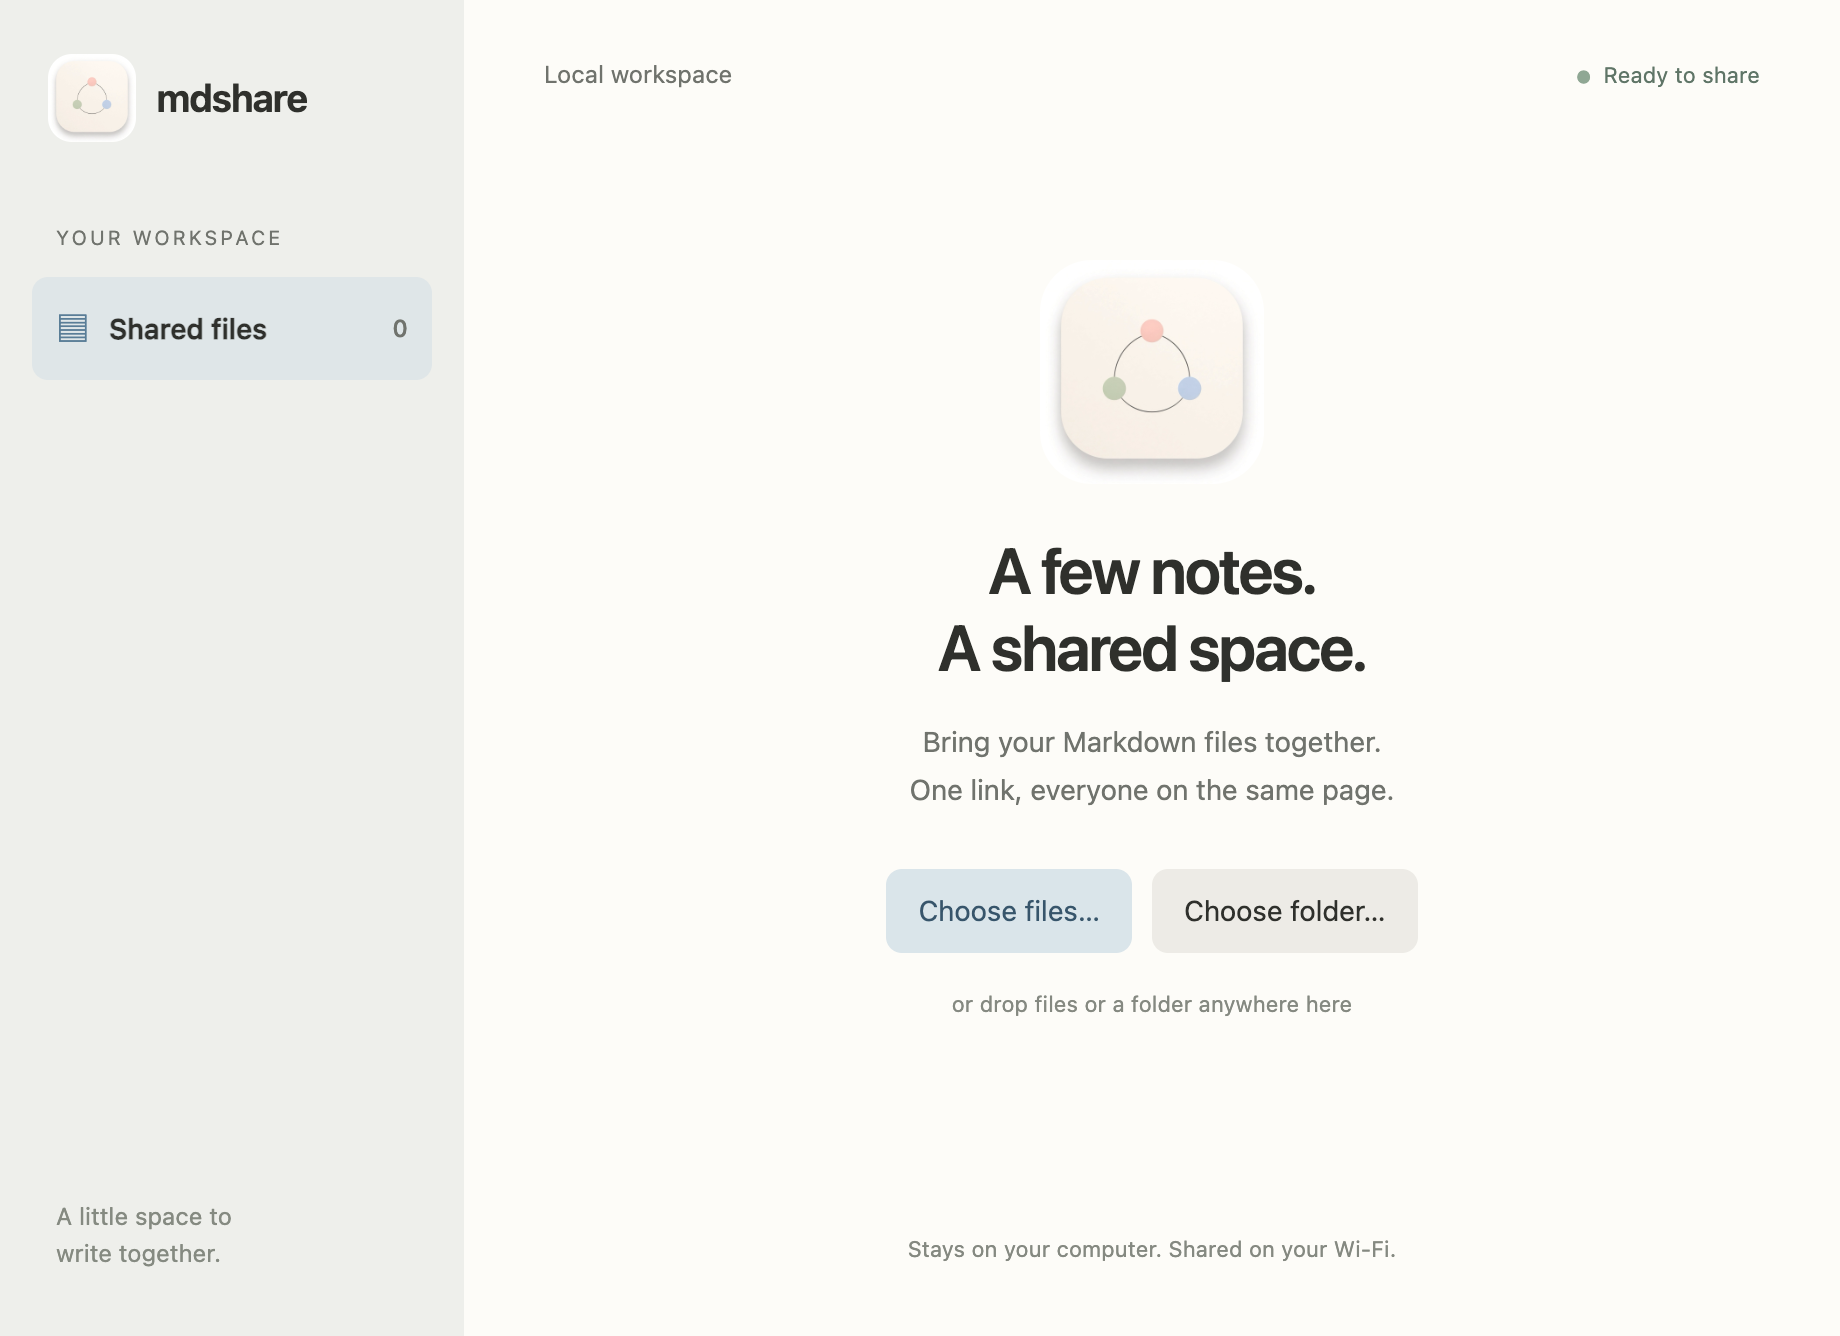
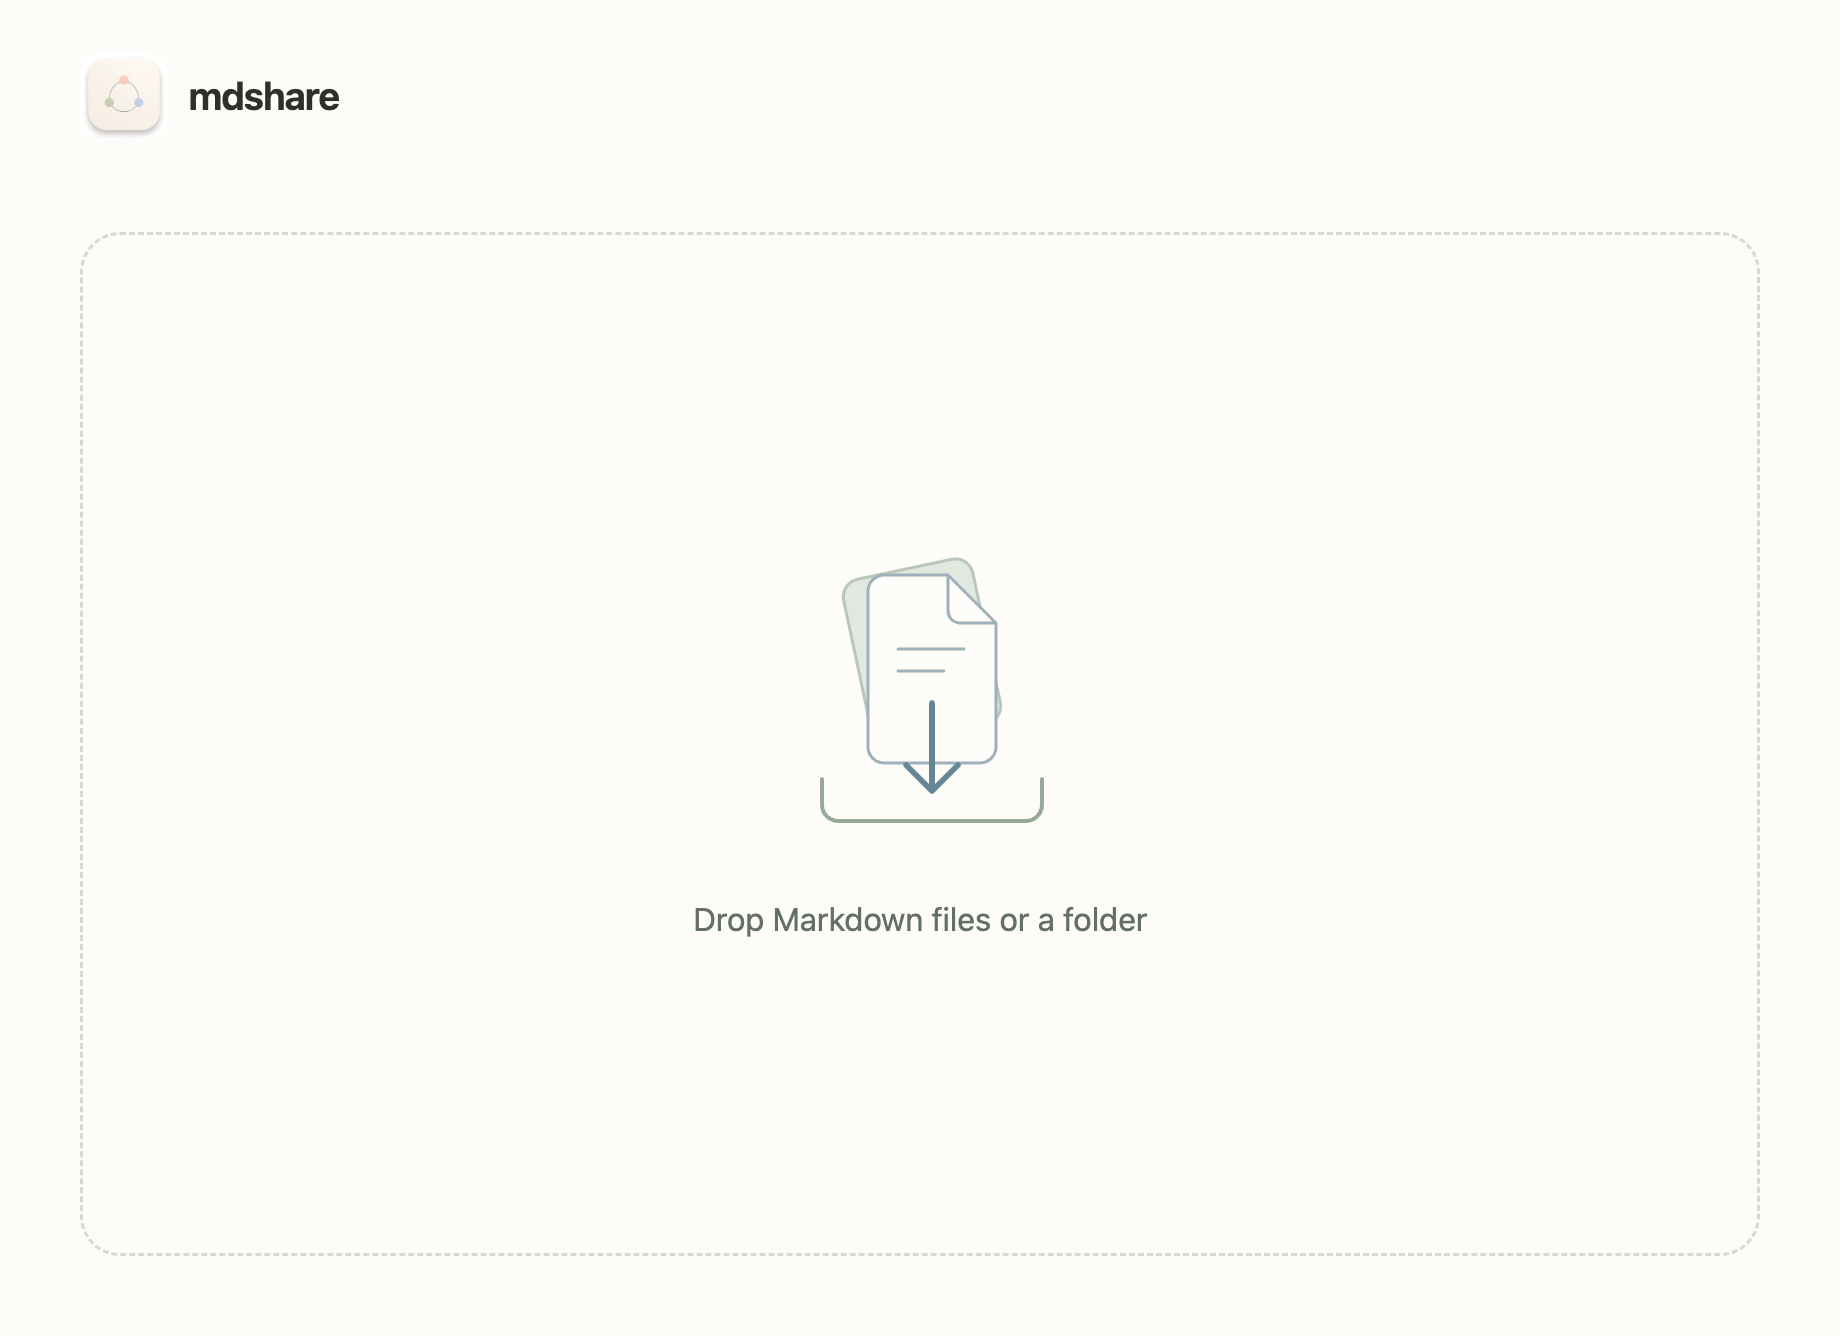
ui: make sharing a minimal drag-and-drop interaction

diff --git a/src/host-ui/host.css b/src/host-ui/host.css
@@ -10,48 +10,50 @@ button:disabled { opacity: .5; cursor: wait; }
 .sidebar { width: 232px; flex: none; padding: 27px 16px 20px; background: #f0f1ee; display: flex; flex-direction: column; }
 .brand { display: flex; align-items: center; gap: 10px; padding: 0 8px; font-size: 19px; font-weight: 650; letter-spacing: -.5px; }
 .brand img { border-radius: 12px; }
-.sidebar-label { margin: 40px 12px 12px; font-size: 10px; letter-spacing: 1.4px; color: var(--muted); }
-.sidebar-current { background: #e3e9eb; padding: 11px 12px; border-radius: 8px; display: flex; align-items: center; gap: 10px; font-weight: 550; }
+.sidebar-current { margin-top: 40px; background: #e3e9eb; padding: 11px 12px; border-radius: 8px; display: flex; align-items: center; gap: 10px; font-weight: 550; }
 .sidebar-current > :first-child { color: #6488a1; font-size: 19px; }
 #file-count { margin-left: auto; font-size: 12px; color: var(--muted); }
 #file-list { list-style: none; margin: 12px 0; padding: 0; overflow: auto; flex: 1; }
 #file-list li { padding: 9px 12px; overflow-wrap: anywhere; font-size: 12px; color: #686e68; }
-#file-list .empty-list { color: #94978f; }
-.sidebar-foot { padding: 0 12px; color: #90958c; font-size: 12px; }
 main { flex: 1; min-width: 0; padding: 28px 40px 24px; display: flex; flex-direction: column; overflow: auto; }
-.topbar { display: flex; align-items: center; justify-content: space-between; gap: 12px; color: var(--muted); font-size: 12px; }
+.topbar { display: flex; align-items: center; justify-content: flex-end; gap: 12px; color: var(--muted); font-size: 12px; }
 .status { color: #6a8072; font-size: 11px; }
 .status::before { content: '●'; margin-right: 6px; color: #9ab09e; font-size: 8px; }
 .view { flex: 1; display: flex; flex-direction: column; }
-.drop { flex: 1; padding: 30px 0; display: flex; flex-direction: column; align-items: center; justify-content: center; border-radius: 18px; text-align: center; transition: background .15s; }
-.drop.over { background: #eaf0ed; outline: 2px dashed #b2c5bc; outline-offset: -8px; }
-.hero-logo { border-radius: 26px; margin-bottom: 24px; }
+.drop { flex: 1; min-height: 300px; margin: 16px 0 0; padding: 36px 20px; display: flex; flex-direction: column; align-items: center; justify-content: center; border: 1.5px dashed #d9dfd7; border-radius: 20px; text-align: center; cursor: pointer; transition: background .15s, border-color .15s; }
+.drop:hover { background: #f8f9f5; }
+.drop:focus-visible { outline: 2px solid #7c9fbc; outline-offset: 5px; }
+.drop-icon { margin-bottom: 24px; overflow: visible; transition: transform .18s; }
+.back-sheet { fill: #e5ebe3; stroke: #c2cdbf; stroke-width: 1.5; }
+.front-sheet { fill: #fdfcf9; stroke: #a8b9c2; stroke-width: 1.5; }
+.sheet-fold, .sheet-line { stroke: #a8b9c2; stroke-width: 1.5; stroke-linecap: round; stroke-linejoin: round; }
+.drop-arrow { stroke: #70929f; stroke-width: 3; stroke-linecap: round; stroke-linejoin: round; }
+.drop-tray { stroke: #a1b3a1; stroke-width: 2; stroke-linecap: round; }
+.drop-hint { margin: 0; font-size: 16px; color: #6e7b70; }
+.drop[aria-busy="true"] { cursor: progress; opacity: .65; }
+body:not(.is-sharing) .sidebar { position: absolute; inset: 0 auto auto 0; width: auto; padding: 26px 32px; background: transparent; }
+body:not(.is-sharing) .sidebar-current, body:not(.is-sharing) #file-list, body:not(.is-sharing) .topbar { display: none; }
+body:not(.is-sharing) main { padding: 100px 40px 40px; }
+body:not(.is-sharing) .error { margin-top: 0; }
+.drop.over { background: #edf3ec; border-color: #95af98; }
+.drop.over .drop-icon { transform: translateY(6px); }
 h1 { font-size: 32px; line-height: 1.2; letter-spacing: -1.15px; font-weight: 600; margin: 0 0 16px; }
-.subtitle { color: var(--muted); margin: 0; line-height: 1.7; overflow-wrap: anywhere; }
-.actions { display: flex; gap: 10px; margin-top: 28px; }
-.primary { background: #dfe8ed; color: #3f6076; }
-.drop-hint, .footnote { color: #90948c; font-size: 11px; }
-.drop-hint { margin-top: 17px; }
-.footnote { text-align: center; }
 .error, .frozen { border-radius: 9px; padding: 12px 15px; background: #f7eddf; color: #826144; font-size: 12px; }
 .frozen { margin: 18px 0 0; }
 .frozen strong { display: block; }
 .sharing-heading { margin-top: 45px; }
-.eyebrow, .label { color: var(--muted); font-size: 10px; letter-spacing: 1.3px; }
-.eyebrow { color: #809287; margin-bottom: 12px; }
-.sharing-heading h1 { font-size: 29px; margin-bottom: 10px; }
-.connection { display: flex; align-items: center; gap: 26px; margin: 27px 0; }
-.qr { width: 148px; height: 148px; border-radius: 12px; padding: 8px; background: white; }
-.connection-copy h2 { font-size: 15px; font-weight: 600; margin: 0 0 8px; }
-.connection-copy p { color: var(--muted); font-size: 12px; margin: 0 0 12px; }
-.pill { color: #6a8771; background: #edf2eb; border-radius: 5px; padding: 4px 7px; font-size: 10px; }
+.sharing-heading h1 { font-size: 25px; margin-bottom: 10px; overflow-wrap: anywhere; }
+.connection { display: flex; flex-direction: column; align-items: center; gap: 14px; margin: 28px 0; }
+.connection-copy { margin: 0; color: var(--muted); font-size: 12px; }
+.qr { width: 180px; height: 180px; border-radius: 12px; padding: 8px; background: white; }
 .url-row { display: flex; gap: 10px; align-items: center; margin-top: 7px; border-radius: 9px; padding: 6px 6px 6px 12px; background: #f1f2ef; }
 .url { flex: 1; min-width: 0; }
 .url, .ip code { font: 11px/1.6 ui-monospace, Menlo, monospace; overflow-wrap: anywhere; user-select: all; }
 .url-row button { flex: none; padding: 8px 10px; background: var(--bg); font-size: 12px; }
 .ip { font-size: 10px; color: var(--muted); margin-top: 12px; }
-.sharing-footer { margin-top: 24px; display: flex; justify-content: space-between; align-items: center; gap: 12px; }
-.sharing-footer span { color: var(--muted); font-size: 11px; }
+.sharing-footer { margin-top: 24px; display: flex; justify-content: flex-end; align-items: center; gap: 12px; }
 .stop { background: #f4e9e4; color: #9b6d60; font-size: 12px; }
 .disclosure { margin: auto 0 0; padding-top: 26px; color: #93958e; font-size: 10px; line-height: 1.6; }
 @media (max-width: 760px) { .sidebar { width: 190px; } main { padding: 24px; } .connection { gap: 16px; } .qr { width: 120px; height: 120px; } }
+
+@media (prefers-reduced-motion: reduce) { .drop, .drop-icon { transition: none; } }

diff --git a/src/host-ui/index.html b/src/host-ui/index.html
@@ -9,37 +9,37 @@
 <body>
 <aside class="sidebar">
   <div class="brand"><img src="../assets/logo-e.png" alt="" width="44" height="44"><span>mdshare</span></div>
-  <p class="sidebar-label">YOUR WORKSPACE</p>
   <div class="sidebar-current"><span aria-hidden="true">▤</span> Shared files <span id="file-count">0</span></div>
-  <ul id="file-list" aria-label="Shared files"><li class="empty-list">Your files will appear here.</li></ul>
-  <p class="sidebar-foot">A little space to<br>write together.</p>
+  <ul id="file-list" aria-label="Shared files"></ul>
 </aside>
 <main>
-  <header class="topbar"><span>Local workspace</span><span id="session-status" class="status">Ready to share</span></header>
+  <header class="topbar"><span id="session-status" class="status">Ready to share</span></header>
   <p id="error" class="error" role="alert" hidden></p>
   <section id="idle" class="view">
-    <div id="drop" class="drop">
-      <img class="hero-logo" src="../assets/logo-e.png" alt="mdshare constellation" width="112" height="112">
-      <h1>A few notes.<br>A shared space.</h1>
-      <p class="subtitle">Bring your Markdown files together.<br>One link, everyone on the same page.</p>
-      <div class="actions"><button id="pick" class="primary" type="button">Choose files…</button><button id="pick-folder" type="button">Choose folder…</button></div>
-      <p class="drop-hint">or drop files or a folder anywhere here</p>
+    <div id="drop" class="drop" role="button" tabindex="0" aria-label="Drop Markdown files or a folder here, or click to choose files" aria-busy="false">
+      <svg class="drop-icon" width="160" height="152" viewBox="0 0 160 152" fill="none" aria-hidden="true">
+        <rect class="back-sheet" x="40" y="20" width="66" height="84" rx="9" transform="rotate(-12 40 20)" />
+        <path class="front-sheet" d="M62 16h32l24 24v62a8 8 0 0 1-8 8H62a8 8 0 0 1-8-8V24a8 8 0 0 1 8-8Z" />
+        <path class="sheet-fold" d="M94 16v18a6 6 0 0 0 6 6h18" />
+        <path class="sheet-line" d="M69 53h33M69 64h23" />
+        <path class="drop-arrow" d="M86 80v44m-13-13 13 13 13-13" />
+        <path class="drop-tray" d="M31 118v13a8 8 0 0 0 8 8h94a8 8 0 0 0 8-8v-13" />
+      </svg>
+      <p id="drop-hint" class="drop-hint">Drop Markdown files or a folder</p>
     </div>
-    <p class="footnote">Stays on your computer. Shared on your Wi-Fi.</p>
   </section>
   <section id="sharing" class="view" hidden>
-    <div class="sharing-heading"><p class="eyebrow">ALL SET</p><h1>Your space is open.</h1><p id="basename" class="subtitle"></p></div>
+    <div class="sharing-heading"><h1 id="basename"></h1></div>
     <div id="frozen" class="frozen" role="alert" hidden><strong>Editing is paused.</strong> A file changed outside mdshare or could not be saved. Copy unsaved text from the browser before stopping and sharing again.</div>
     <div id="connection" class="connection">
       <img id="qr" class="qr" alt="QR code for the share link">
-      <div class="connection-copy"><h2>Invite someone in</h2><p>On the same Wi-Fi, scan this code<br>or open the link below.</p><span class="pill">● Live collaboration</span></div>
+      <p class="connection-copy">Scan on the same Wi-Fi</p>
     </div>
     <div id="link-area" class="link-area">
-      <label class="label">SHARE LINK</label>
       <div class="url-row"><code id="url" class="url"></code><button id="copy" type="button">Copy link</button></div>
       <p id="ip-row" class="ip" hidden>If that doesn’t open, try <code id="ip-url"></code></p>
     </div>
-    <div class="sharing-footer"><span>Edits save to the original files.</span><button id="stop" class="stop" type="button">Stop sharing</button></div>
+    <div class="sharing-footer"><button id="stop" class="stop" type="button">Stop sharing</button></div>
     <p class="disclosure">Sharing uses unencrypted HTTP. Anyone on this Wi-Fi could read the documents and the link. Use only on networks you trust.</p>
   </section>
 </main>

diff --git a/src/host-ui/host.js b/src/host-ui/host.js
@@ -7,6 +7,7 @@ let currentState = { sharing: false }
 function render (state) {
   currentState = state
   const sharing = Boolean(state?.sharing)
+  document.body.classList.toggle('is-sharing', sharing)
   $('idle').hidden = sharing
   $('sharing').hidden = !sharing
   $('error').hidden = !state?.error
@@ -34,6 +35,8 @@ function render (state) {
 async function run (fn) {
   if (busy) return
   busy = true
+  $('drop').setAttribute('aria-busy', 'true')
+  $('drop-hint').textContent = 'Opening…'
   for (const button of document.querySelectorAll('button')) button.disabled = true
   try {
     render(await fn())
@@ -41,25 +44,51 @@ async function run (fn) {
     render({ ...currentState, error: String(err?.message ?? err) })
   } finally {
     busy = false
+    $('drop').setAttribute('aria-busy', 'false')
+    $('drop-hint').textContent = 'Drop Markdown files or a folder'
     for (const button of document.querySelectorAll('button')) button.disabled = false
   }
 }
 
-// Never let a drop anywhere navigate the window to the file.
-for (const type of ['dragover', 'drop']) {
-  window.addEventListener(type, e => e.preventDefault())
-}
-
+// The entire idle window accepts a drop. Track nested drag events so crossing
+// the illustration or label does not flicker the active target.
 const drop = $('drop')
-drop.addEventListener('dragenter', () => drop.classList.add('over'))
-drop.addEventListener('dragleave', () => drop.classList.remove('over'))
-drop.addEventListener('drop', e => {
+let dragDepth = 0
+const acceptsDrop = () => !currentState.sharing && !busy
+const resetDrag = () => {
+  dragDepth = 0
   drop.classList.remove('over')
+}
+window.addEventListener('dragenter', e => {
+  e.preventDefault()
+  if (!acceptsDrop() || !e.dataTransfer?.types.includes('Files')) return
+  dragDepth++
+  drop.classList.add('over')
+})
+window.addEventListener('dragover', e => {
+  e.preventDefault() // never navigate to a dropped file
+  if (e.dataTransfer) e.dataTransfer.dropEffect = acceptsDrop() ? 'copy' : 'none'
+})
+window.addEventListener('dragleave', () => {
+  dragDepth = Math.max(0, dragDepth - 1)
+  if (!dragDepth) drop.classList.remove('over')
+})
+window.addEventListener('dragend', resetDrag)
+window.addEventListener('drop', e => {
+  e.preventDefault()
+  resetDrag()
+  if (!acceptsDrop()) return
   const files = [...(e.dataTransfer?.files ?? [])]
   if (files.length) run(() => api.shareDropped(files))
 })
-$('pick').addEventListener('click', e => { e.stopPropagation(); run(api.pick) })
-$('pick-folder').addEventListener('click', () => run(api.pickFolder))
+// A quiet fallback for keyboard users and people who prefer a file dialog.
+drop.addEventListener('click', () => run(api.pick))
+drop.addEventListener('keydown', e => {
+  if (e.key === 'Enter' || e.key === ' ') {
+    e.preventDefault()
+    run(api.pick)
+  }
+})
 $('stop').addEventListener('click', () => run(api.stop))
 $('copy').addEventListener('click', async () => {
   await api.copy($('url').textContent)

diff --git a/src/guest/guest.css b/src/guest/guest.css
@@ -134,8 +134,6 @@ button { -webkit-tap-highlight-color: transparent; }
 .file:hover { background: #e6eae5; }
 .file:focus-visible { outline: 2px solid #7c9fbc; outline-offset: -2px; }
 .file-icon { color: #8da5b4; font-size: 17px; }
-.sidebar-foot { font-size: 11px; color: #8e9589; padding: 12px 8px 0; }
-.presence-dot { display: inline-block; height: 6px; width: 6px; border-radius: 50%; background: #a3b89f; margin-right: 5px; }
 .workspace { flex: 1; min-width: 0; display: flex; flex-direction: column; height: 100%; }
 .status { font-size: 11px; }
 .name { font-size: 13px; font-weight: 500; color: #73796f; }
@@ -153,7 +151,7 @@ button { -webkit-tap-highlight-color: transparent; }
   .sidebar { width: 100%; padding: 10px 12px; max-height: 32%; flex-shrink: 0; }
   .brand { font-size: 15px; padding: 0; }
   .brand img { width: 28px; height: 28px; }
-  .sidebar-heading, .sidebar-foot { display: none; }
+  .sidebar-heading { display: none; }
   #files { display: flex; overflow: auto; gap: 6px; margin-top: 8px; flex: none; }
   .file { width: auto; min-width: 130px; max-width: 230px; flex-shrink: 0; padding: 7px 9px; margin: 0; font-size: 12px; }
   .workspace { height: auto; min-height: 0; }

diff --git a/src/core/guestAssets.js b/src/core/guestAssets.js
@@ -44,7 +44,6 @@ export function guestHtml ({ manifest, session, nonce }) {
   <div class="brand"><img src="/assets/${escapeHtml(manifest.logo)}" alt="" width="40" height="40"><span>mdshare</span></div>
   <div class="sidebar-heading">Shared files <span>${session.files.length}</span></div>
   <nav id="files" aria-label="Files">${session.files.map((file, i) => `<button type="button" class="file" data-file="${escapeHtml(file.id)}" aria-current="${i === 0 ? 'page' : 'false'}"><span class="file-icon" aria-hidden="true">▤</span><span>${escapeHtml(file.name)}</span></button>`).join('')}</nav>
-  <p class="sidebar-foot"><span class="presence-dot"></span> One link. Write together.</p>
 </aside>
 <div class="workspace">
 <header class="bar">

diff --git a/README.md b/README.md
@@ -10,7 +10,7 @@ mdshare 是一个本机 Electron 原型（当前版本 `0.0.1`）。它把你电
 
 ## 它做什么
 
-1. 在宿主窗口拖入多个 Markdown 文件或文件夹，或点 **Choose files…** / **Choose folder…**。
+1. 将 Markdown 文件或文件夹拖进窗口，即刻共享。
 2. 程序在本机启动 HTTP 页面和 WebSocket，并显示链接和二维码。
 3. 同一局域网里的浏览器打开同一个链接，从侧栏选择文件，用 CodeMirror 6 编辑。每个文件有独立的 Yjs 文档和光标状态。
 4. 访客可以在 **Source**（源码）和 **Preview**（预览）之间切换。预览由 Marked（GFM）生成，再经 DOMPurify 清洗后显示。
@@ -80,7 +80,7 @@ npm run test:node
 ## 基本用法
 
 1. 运行 `npm start`，出现宿主窗口。
-2. 将多个 Markdown 文件或一个文件夹拖入主区域；也可以点 **Choose files…** 多选文件，或点 **Choose folder…** 选择整个文件夹。
+2. 将多个 Markdown 文件或一个文件夹拖进窗口的虚线区域即可共享。首页只保留拖放图形和一句提示；也可点击该区域，或聚焦后按 Enter / 空格，多选文件。
 3. 主机侧栏列出全部文件，主区域显示二维码和链接。点 **Copy link** 复制主链接。
 4. 自己要编辑时，也在本机浏览器打开这个链接。其他设备需要在同一网络里扫二维码，或打开链接。
 5. 访客从左侧文件列表切换文件；小屏幕上列表变为顶部横向滚动栏。正文上方显示当前文件名、**Source** / **Preview** 和连接状态。每个标签页同时连接一个文件，切换时释放旧编辑器和连接。

diff --git a/docs/design/verification.md b/docs/design/verification.md
@@ -19,9 +19,17 @@ Seven new integration tests cover independent per-file CRDTs and awareness, conv
 
 These checks used the local Mac mini; they do not claim a physical second-device Wi-Fi test or Safari validation.
 
+## Drag-first UI follow-up
+
+The idle host now shows only the brand, a file-and-tray illustration and one drop hint. It accepts drops anywhere in the idle window, highlights while dragging, and opens the file picker when the target is clicked or activated with Enter/Space. Separate file/folder buttons and promotional copy have been removed; the empty sidebar stays hidden until sharing begins.
+
+Verified the actual Electron main/preload path with filesystem-backed drag events for two files and a folder, invalid-file recovery, keyboard picker fallback, stop/reset, and the 680 × 560 minimum window size. `npm test` still reports 59 passed, 0 failed and the same one metadata skip. The host screenshots below reflect this follow-up; guest screenshots are from the initial feature verification.
+
 ## Screenshots
 
 ![Host idle](screenshots/host-idle.png)
+
+![Drop highlight](screenshots/host-drag-active.png)
 
 ![Guest preview](screenshots/guest-preview.png)
 
